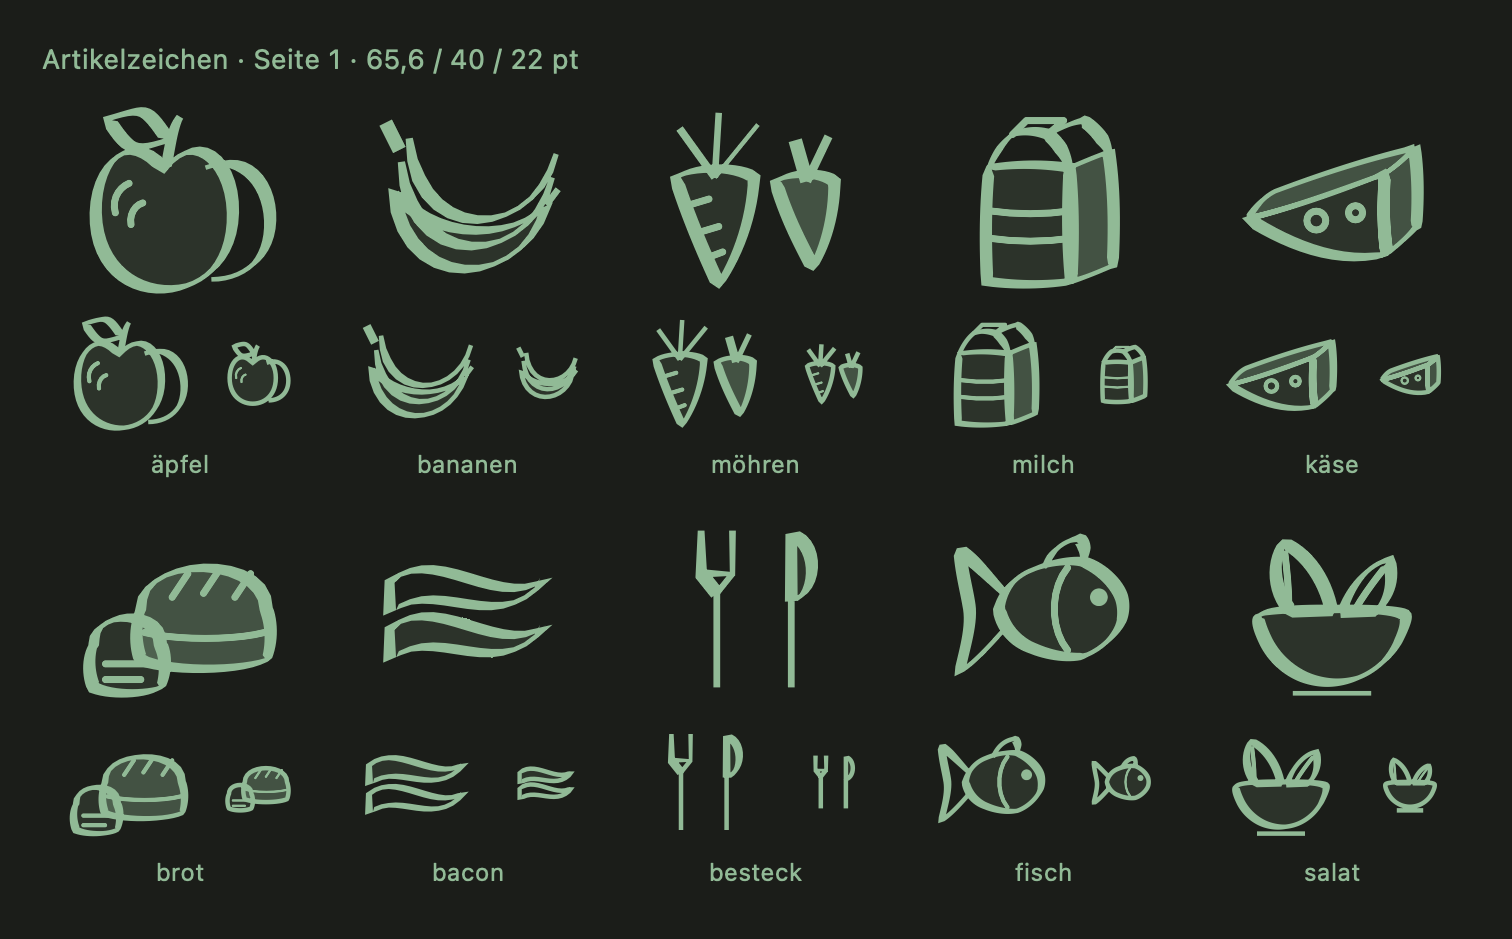
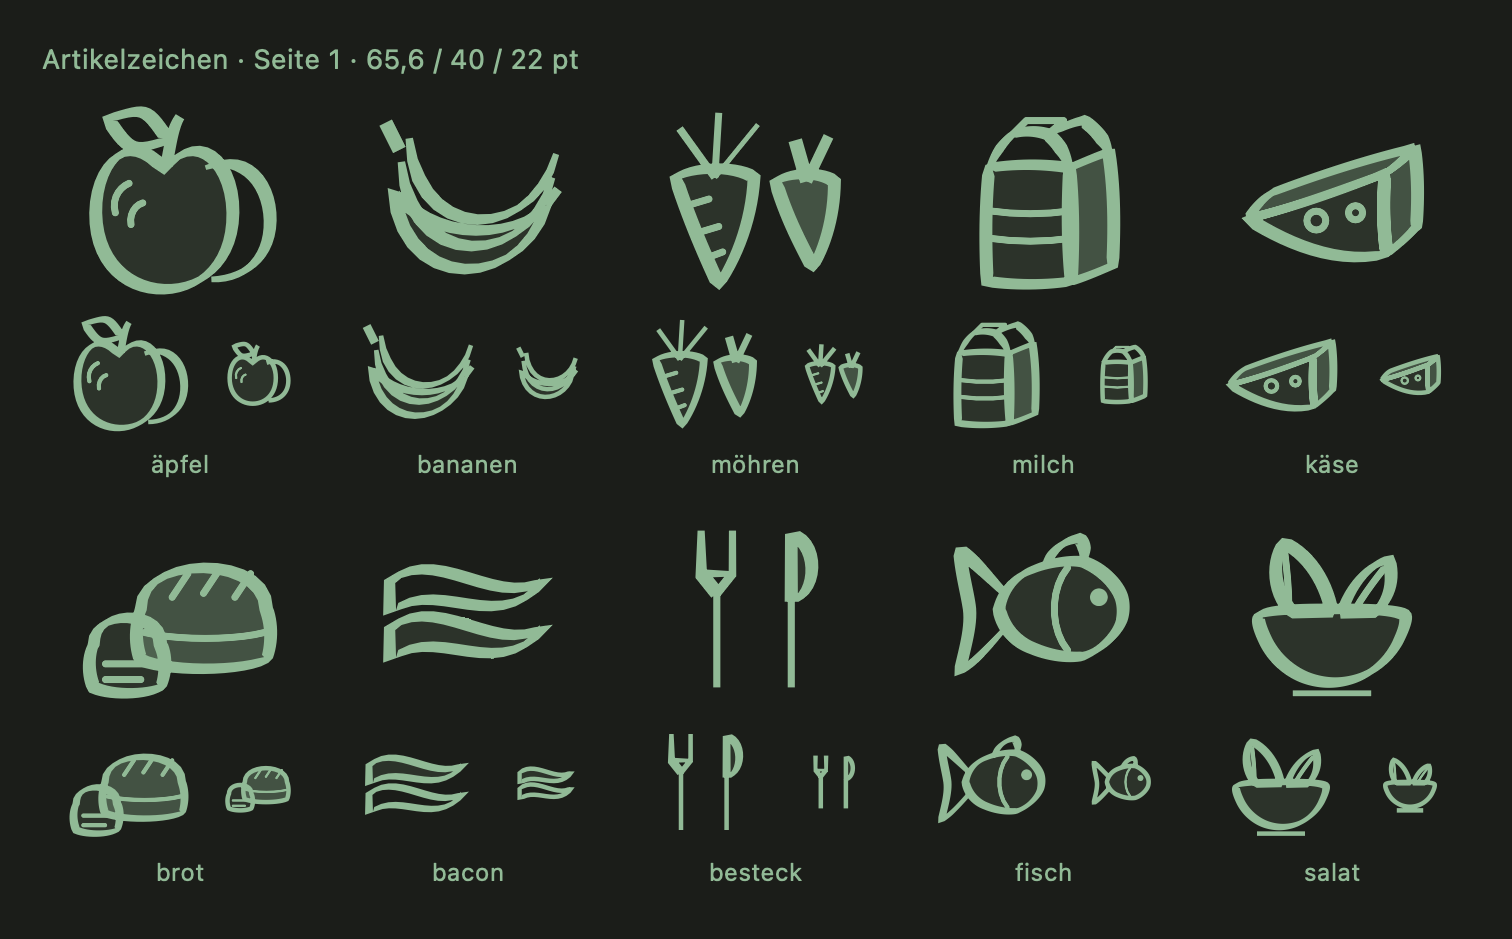
Feder zurueck auf 0,46 — 0,15 war am Bild abgewaehlt, die Klemme bleibt
Scott auf dem Prueflbogen 90/40/22: 0,46 sieht am besten aus. Bei 0,15
schwoll die Kontur bei 90 pt zwischen 1,5 und 6,5 pt, und das war eine
andere Zeichnung — kalligrafisch statt gezeichnet. Die Feder soll dem
Strich Leben geben, nicht selbst das Motiv werden.

Kein stiller Rueckbau: Der Versuch steht im Rezeptkopf, im PR und im
Vault-Log, samt der Messung, die ihn ausgeloest hat (der Weg von 1,00 auf
0,15 nimmt nur ein Viertel der Konturflaeche weg).

Feder.Profil.mindest bleibt, weil es unabhaengig vom Wert richtig ist:
schmal ist ein Verhaeltnis und schrumpft mit der Zeichnung mit, eine
Grenze in Punkten nicht. Bei 0,46 ist sie kein totes Gewicht — sie greift
genau dort, wo es eng wird: 90 pt 2,98 pt ungeklemmt, 65,6 pt 2,17
ungeklemmt, 40 pt 1,32 auf 1,50, 22 pt 0,73 auf 1,50.

diff --git a/ios/LeChariot/DesignSystem/ItemGlyphs.swift b/ios/LeChariot/DesignSystem/ItemGlyphs.swift
@@ -87,29 +87,35 @@ enum ItemGlyph {
     /// Mittel deutlich schmaler. Gemessen am Referenzsatz (OpenMoji, 0,0278;
     /// siehe `docs/ZEICHEN-RECHERCHE.md`) kommt der Satz damit von 2,3-fach
     /// auf etwa 1,5-fach heran, ohne bei 22 pt zu zerfallen.
-    /// **Die Feder darf groß leben und wird klein geklemmt.**
+    /// **Die Feder schwingt verhalten — und 0,15 ist ausprobiert und
+    /// verworfen, nicht übersehen.**
     ///
-    /// `schmal` stand bis zum 12.08. auf 0,46, und der Satz las sich trotzdem
-    /// als Monolinie — gemessen: Der Weg von 0,46 auf 0,15 nimmt nur ein
-    /// Viertel der Konturfläche weg, weil ein gebogener Umriss durch jede
-    /// Richtung läuft und sich selbst ausmittelt. Zaghaft war der Wert also
-    /// nicht aus Geschmack, sondern weil ein *Verhältnis* mit der Zeichnung
-    /// mitschrumpft: 0,15 hätte bei 22 pt eine 0,24-pt-Stelle ergeben, und
-    /// dort reißt der Strich auf.
+    /// Am 12.08. stand die Frage, warum der Satz trotz eingeschalteter Feder
+    /// wie eine Monolinie aussieht. Gemessen (Konturpixel auf einem
+    /// Probebogen, `breite` konstant gehalten): Der ganze Weg von der flachen
+    /// Linie bis zum Extrem nimmt **nur ein Viertel** der Konturfläche weg —
+    /// 1,00 → 100 %, 0,46 → 84 %, 0,28 → 78 %, 0,15 → 75 %. Ein gebogener
+    /// Umriss läuft durch jede Richtung und mittelt sich selbst aus.
     ///
-    /// Die Untergrenze in `Feder.Profil.mindest` löst das an der richtigen
-    /// Stelle — sie ist in **Punkten** gemessen, nicht im Verhältnis. Damit
-    /// kann die Feder hier auf 0,15 gehen: Bei 90 pt schwillt die Kontur
-    /// zwischen 1,5 und 6,5 pt an und ab, bei 40 pt zwischen 1,5 und 2,9, und
-    /// bei 22 pt ist praktisch alles geklemmt — dort ist die Monolinie kein
-    /// Verlust, sondern das, was bei der Größe überhaupt trägt.
+    /// Daraufhin lief der Satz eine Runde auf **0,15**, und auf dem Prüfbogen
+    /// 90/40/22 hat Scott ihn wieder abgewählt: Bei 90 pt schwoll die Kontur
+    /// zwischen 1,5 und 6,5 pt, und das war eine andere Zeichnung — kalligrafisch
+    /// statt gezeichnet. **0,46 ist die Anmutung, die bleiben soll**; die Feder
+    /// soll dem Strich Leben geben und nicht selbst das Motiv werden.
+    ///
+    /// **Die Untergrenze aus derselben Runde bleibt trotzdem**, weil sie
+    /// unabhängig vom Wert richtig ist: Ein *Verhältnis* schrumpft mit der
+    /// Zeichnung mit, eine Grenze in **Punkten** nicht. Sie ist bei 0,46 kein
+    /// totes Gewicht, sondern greift dort, wo es klein wird — 90 pt: 2,98 pt
+    /// schmalste Stelle, ungeklemmt; 40 pt: 1,32 → **1,50**; 22 pt: 0,73 →
+    /// **1,50**. Genau die Größen, bei denen ein dünn auslaufender Strich auf
+    /// dem Gerät aufreißt.
     ///
     /// **`breite` bleibt bei 0,072.** Auf dem Prüfbogen sahen 0,085 und 0,095
     /// kräftiger aus, aber 0,095 ist genau der Wert, an dem der Satz am 11.08.
     /// gescheitert ist: Zwei Kanten, die näher beieinander liegen als der
-    /// Strich breit ist, sind eine Kante — drei Bananen wurden ein Klotz. Die
-    /// Feder soll Leben in den Strich bringen, nicht die alte Falle zurück.
-    static let feder = Feder.Profil(breite: 0.072, neigung: -32, schmal: 0.15,
+    /// Strich breit ist, sind eine Kante — drei Bananen wurden ein Klotz.
+    static let feder = Feder.Profil(breite: 0.072, neigung: -32, schmal: 0.46,
                                     spitze: 0.18, mindest: 1.5)
 
     /// Die Zeichnung dieses Begriffs, oder `nil` für einen, für den es hier

diff --git a/ios/LeChariot/DesignSystem/CategoryGlyphs.swift b/ios/LeChariot/DesignSystem/CategoryGlyphs.swift
@@ -394,18 +394,21 @@ enum Feder {
         var spitze: CGFloat = 0.16
         /// **Untergrenze in Punkten, nicht im Verhältnis.**
         ///
-        /// Der Grund, warum `schmal` überhaupt so zaghaft eingestellt war: Ein
-        /// Verhältnis schrumpft mit der Zeichnung mit. Bei 0,15 und 22 pt wäre
-        /// die schmalste Stelle 0,24 pt — auf dem Gerät nichts, und der Strich
-        /// reißt dort auf. Also nicht die Feder zähmen, damit sie klein noch
-        /// trägt, sondern **groß leben lassen und klein klemmen**: Kein
-        /// Abschnitt wird schmaler als dieser Wert, egal wie stark die Feder
-        /// sonst moduliert.
+        /// `schmal` ist ein *Verhältnis* und schrumpft deshalb mit der
+        /// Zeichnung mit — bei kleinen Größen läuft die schmalste Stelle
+        /// unter das, was auf dem Gerät noch ein Strich ist, und reißt auf.
+        /// Die Untergrenze steht dagegen in **Punkten**: Kein Abschnitt wird
+        /// schmaler als dieser Wert, egal wie stark die Feder sonst moduliert.
         ///
-        /// Bei 0,072 Grundbreite heißt das: 22 pt → volle Breite 1,6 pt, also
-        /// praktisch überall geklemmt und wieder Monolinie; 40 pt → 1,5 bis
-        /// 2,9 pt; 90 pt → 1,5 bis 6,5 pt, und dort schwillt sie sichtbar an
-        /// und ab. Erlaufen auf dem Prüfbogen 90/40/22, nicht gewählt.
+        /// **Das ist der Grund, warum `schmal` nicht mehr die Größe mitdenken
+        /// muss.** Vorher war der Wert ein Kompromiss zwischen „groß soll man
+        /// die Feder sehen" und „klein darf sie nicht zerfallen"; jetzt
+        /// beantwortet die Klemme die zweite Hälfte, und `schmal` ist wieder
+        /// eine reine Gestaltungsfrage.
+        ///
+        /// Bei 0,072 Grundbreite und `schmal` 0,46 greift sie genau dort, wo
+        /// es eng wird: 90 pt → 2,98 pt schmalste Stelle, ungeklemmt; 40 pt →
+        /// 1,32 wird **1,50**; 22 pt → 0,73 wird **1,50**.
         var mindest: CGFloat = 1.5
     }
 
